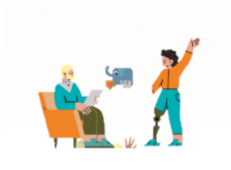
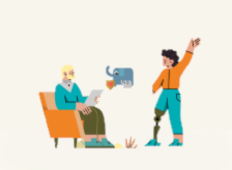
add one image

diff --git a/frontend/src/pages/Home/Home.jsx b/frontend/src/pages/Home/Home.jsx
@@ -7,9 +7,10 @@ import feature_1 from '../../media/homePage/feature_1.png';
 import feature_2 from '../../media/homePage/feature_2.png';
 import feature_3 from '../../media/homePage/feature_3.png';
 // import value_1 from '../../media/homePage/value_1.png';
-import value_2 from '../../media/homePage/value_2.png';
+// import value_2 from '../../media/homePage/value_2.png';
 import value_3 from '../../media/homePage/value_3.png';
 import value_4 from '../../media/homePage/value_4.png';
+import value_5 from '../../media/homePage/value_5.png';
 import video from '../../media/homePage/video_placeholder.png';
 import logo from '../../media/kids_first_logo_beta.png';
 
@@ -93,7 +94,7 @@ export default function Home() {
               chance for conflict and more time and focus on the children&#39;s
               well-being.
             </p>
-            <img src={value_2} alt=""></img>
+            <img src={value_5} alt=""></img>
           </div>
           <div className="feature-1">
             <p>
